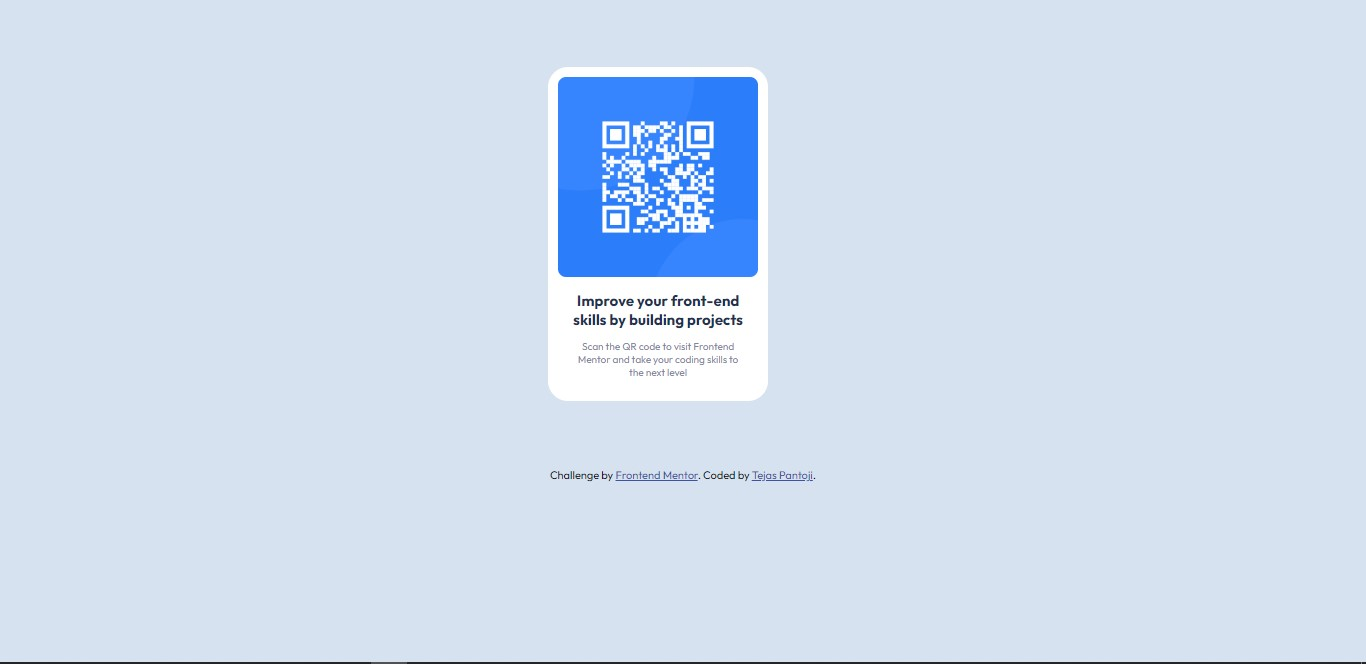
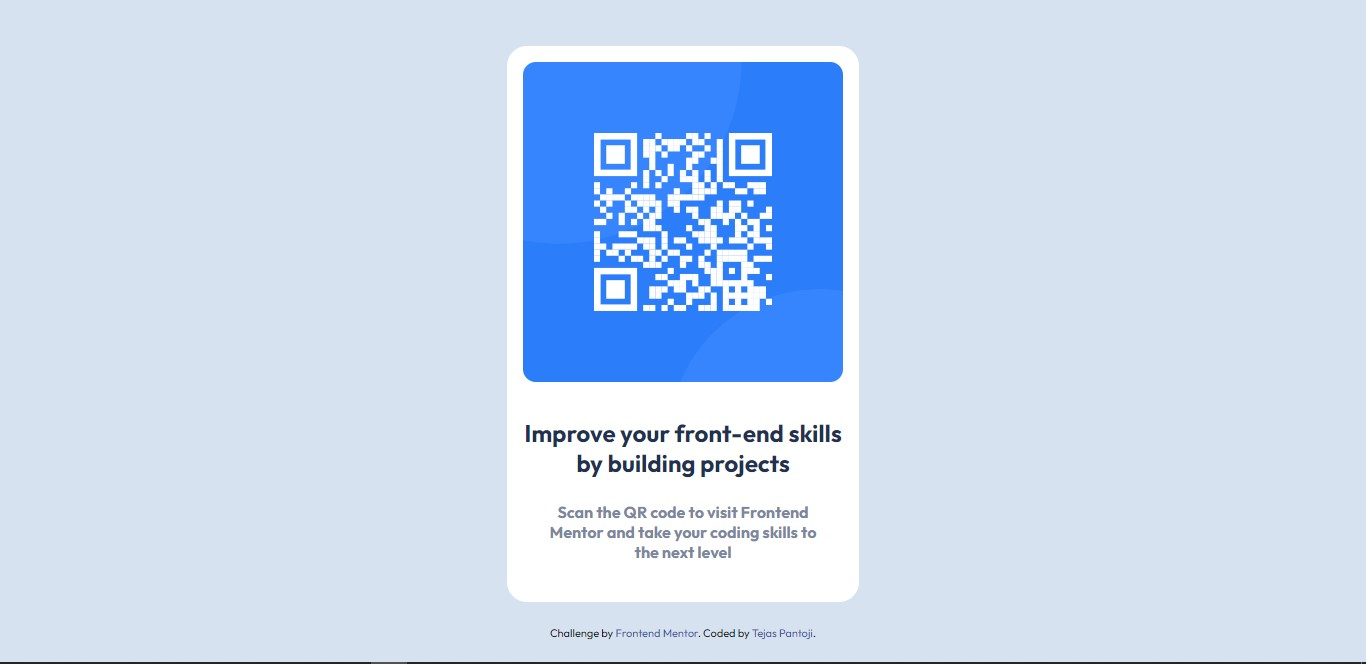
Minor changes

Changed region(s): [[0.369, 0.0602, 0.6457, 0.9036], [0.3997, 0.9337, 0.5842, 0.9639]]

diff --git a/indexstyle.css b/indexstyle.css
@@ -17,24 +17,26 @@ body {
 }
 
 h1{
-    font-size: 0.938rem;
+    font-size: 1.5rem;
     text-align: center;
+    display: block;
     color: hsl(218, 44%, 22%);
-    padding: 0% 10% 5%;
-    margin: 0%;
+    padding-top:36px;
+    padding-bottom: 24px;
+    margin: 0% auto;
 }
 
-.paragraph{
+h2{
     color: hsl(220, 15%, 55%);
     text-align: center;
-    font-size: 0.625rem;
-    padding: 0% 10% 10%;
-    margin: 0%;
+    font-size: 1rem;
+    padding-bottom:24px;
+    margin: 0 24px;
 }
 
 .attribution { 
     font-size: 11px;
-    text-align: justify;
+    text-align: center;
 }
 
 .attribution a {
@@ -42,16 +44,21 @@ h1{
 }
 
 .container{
-    background-color: white;   
-    margin: 5% 40% 5% 40%;
-    border-radius: 20px;
-    height: auto;
-    width: 220px;
+    display: flex;
+    justify-content:center;
+    flex-wrap:wrap;
+    max-width:320px;
+    padding:16px;
+    margin:24px;
+    border-radius:20px;
+    background-color: white;
 }
 
 .img-qr{
+    display: block;
     border-radius: 4%;
-    width: 200px;
+    max-width:100%;
+    width: 100%;
     height: auto;
-    margin: 10px;
+    margin: auto;
 }

diff --git a/index.html b/index.html
@@ -13,7 +13,7 @@
 <div class="container">
   <img src="images/image-qr-code.png" alt="QRCODE" class="img-qr">
   <h1>Improve your front-end skills by building projects</h1>
-  <p class="paragraph">Scan the QR code to visit Frontend Mentor and take your coding skills to the next level</p>
+  <h2>Scan the QR code to visit Frontend Mentor and take your coding skills to the next level</h2>
 </div>  
   <div class="attribution">
     Challenge by <a href="https://www.frontendmentor.io?ref=challenge" target="_blank">Frontend Mentor</a>. 
